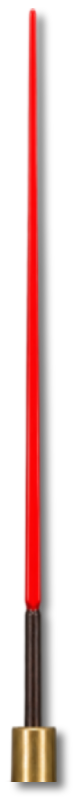
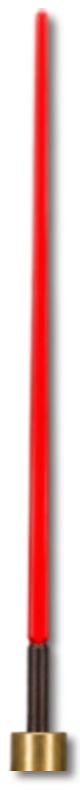
vu-store: Aluminium v2 (new needles) and Copper v2 (new outer frame)
From the designer's updated artwork. Golden is unchanged at v1. Devices
that downloaded the v1 skins update to v2 on their next store check.

diff --git a/vu-store/README.md b/vu-store/README.md
@@ -33,9 +33,12 @@ needle axis − X0, dial pivot Y − T (all source-artwork pixels):
 
 | id | from | needle cut | --needle-pivot | --meter (left, right) | --angles |
 |---|---|---|---|---|---|
-| `copper` | VU Dagostino.zip: under backplate + quadranti, over frame | 715,790 / 340..875 | 34.5,557.93 | 744.31,897.93 · 2070.41,898.14 | -44.5,47.65 |
+| `copper` | VU Dagostino: under backplate + quadranti, over frame esterno 2 (v2) | 715,790 / 340..875 | 34.5,557.93 | 744.31,897.93 · 2070.41,898.14 | -44.5,47.65 |
 | `golden` | VU Golden: under quadranti, over frame | 700,775 / 280..1180 | 34.1,949.77 | 736.58,1229.77 · 2103.58,1231.77 | -34.1,34.3 |
-| `aluminium` | VU Aluminium Style: under quadrante fix, over frame | 760,835 / 265..1070 | 34.9,1006.91 | 796.59,1271.91 · 2024.46,1275.09 | -34.6,33.0 |
+| `aluminium` | VU Aluminium Style: under quadrante fix, over frame; v2 lancette | 750,830 / 230..1020 | 38.5,1041.91 | 796.59,1271.91 · 2024.46,1275.09 | -34.6,33.0 |
+
+The v2 Aluminium needle leans slightly in the artwork (tip at x 792, collar
+at 788.5): its axis is the collar's centre.
 
 The Aluminium scale is light on dark: `measure` looks for dark pixels, so its
 pivots were measured on the bright ones instead. For Golden, `measure` reads
